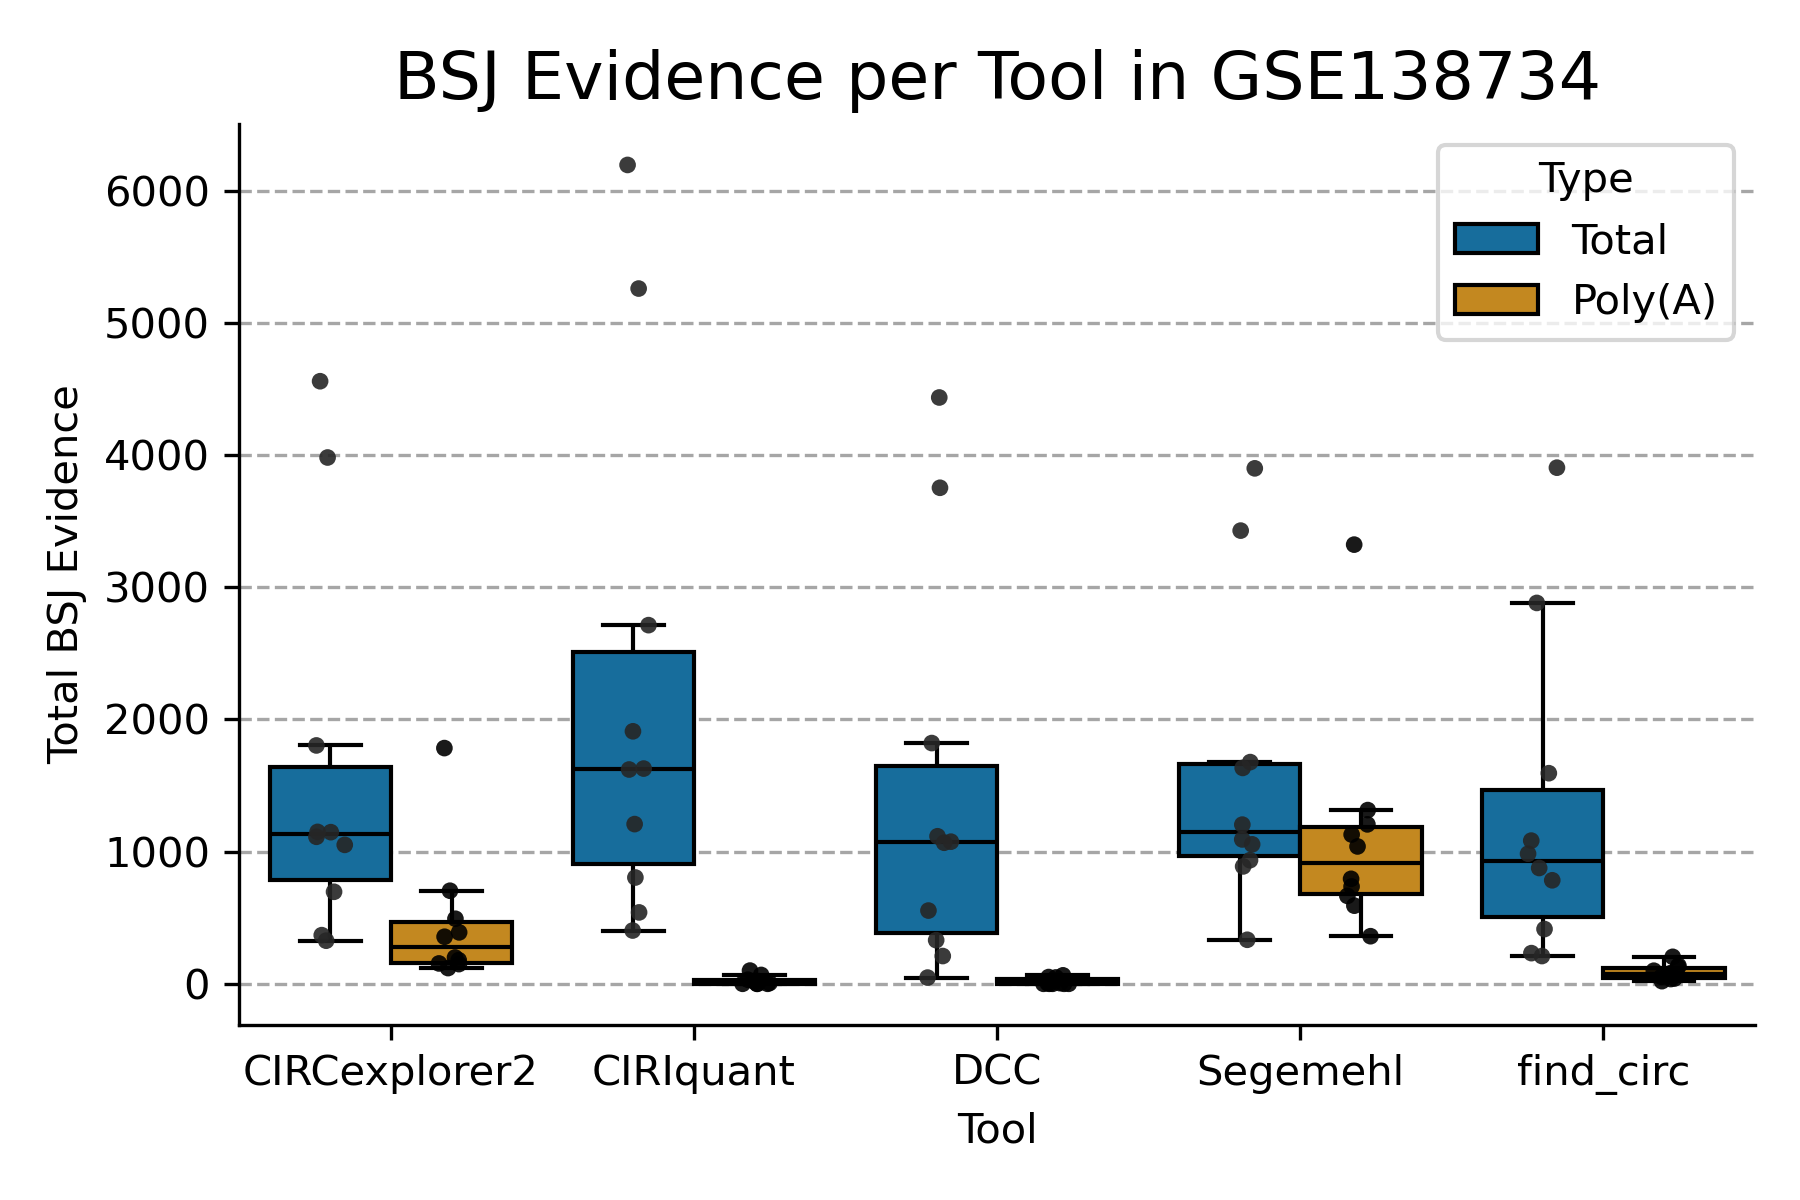
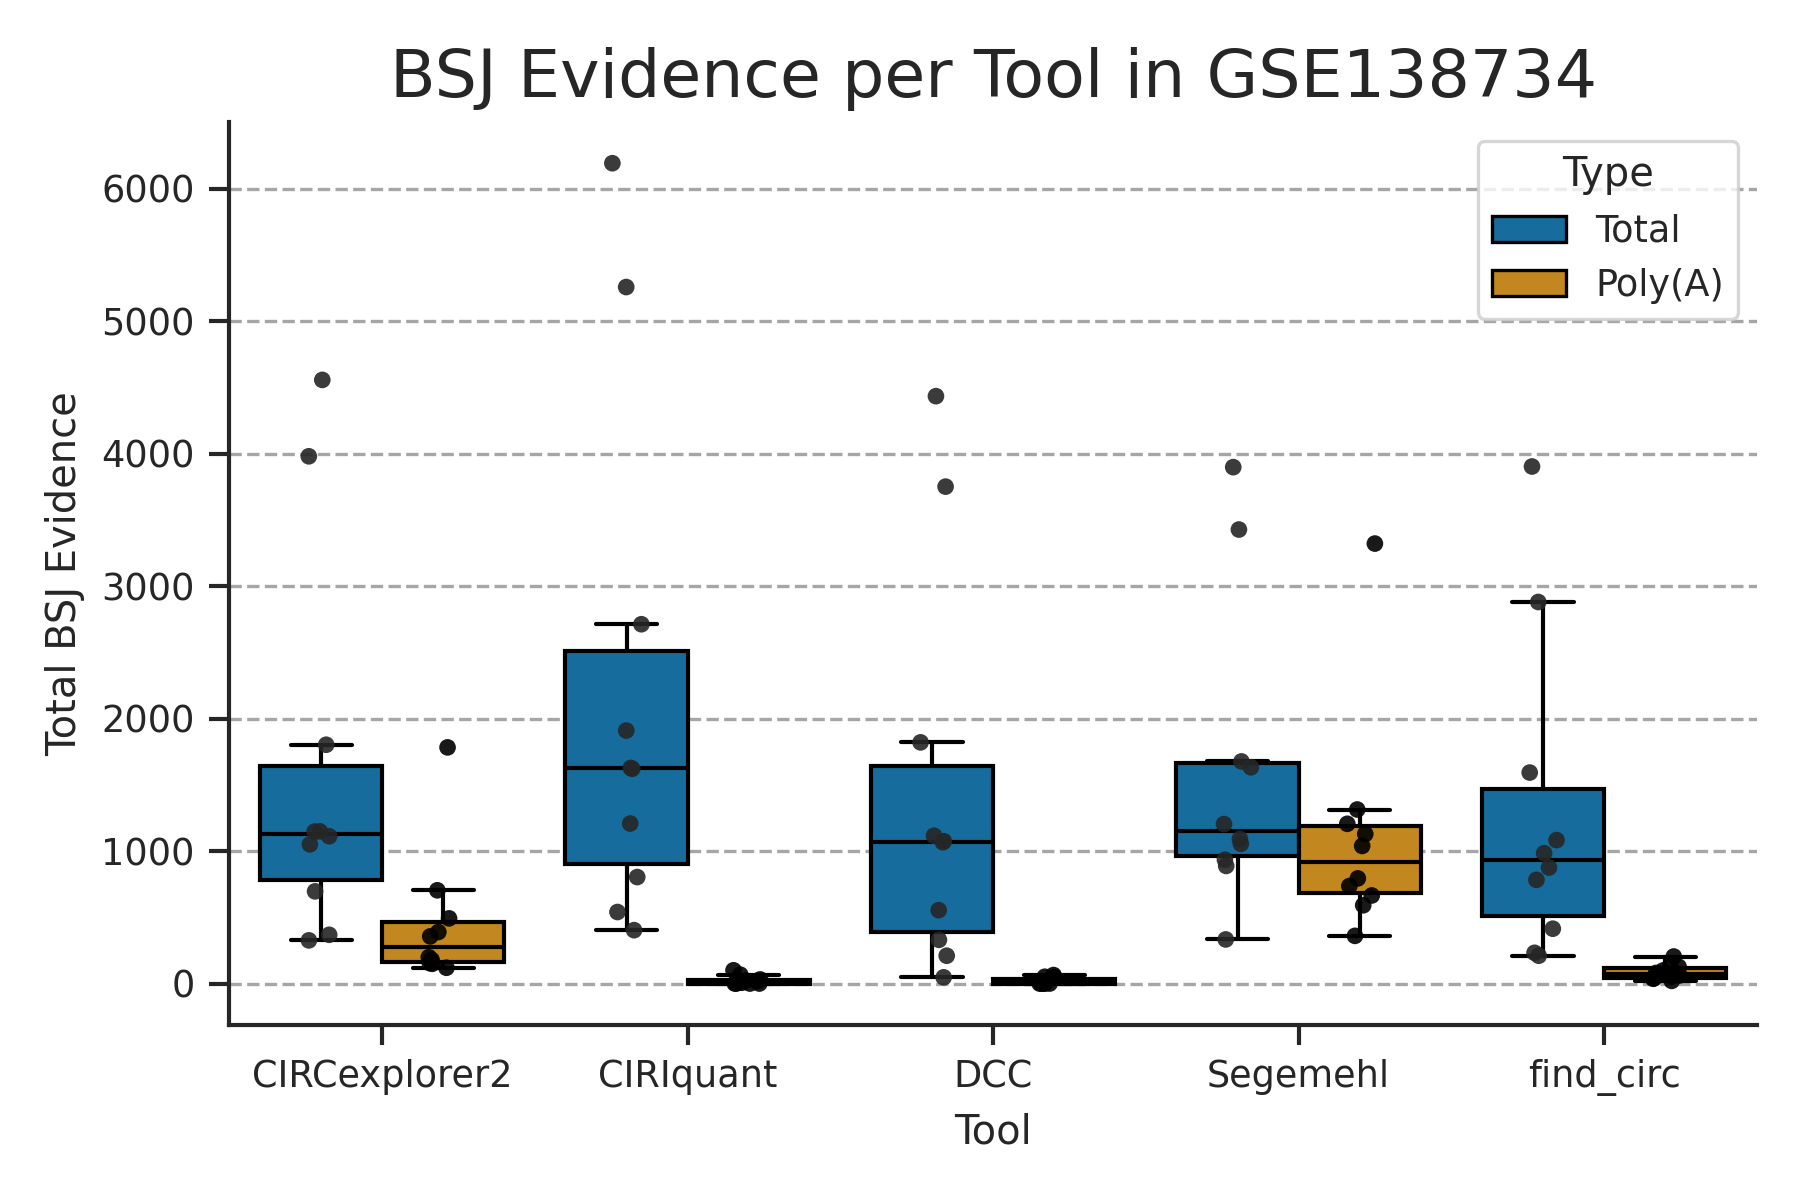
fixing bsj sum plot

diff --git a/src/rrna_analysis/misc/plot_bsj_sum.py b/src/rrna_analysis/misc/plot_bsj_sum.py
@@ -5,13 +5,15 @@ import pandas as pd
 import sys
 import os
 
-# Custom palette
-palette = {
-    "total": "#FC8D62",  # orange
-    "polyA": "#66C2A5",  # green
-}
-
 MAIN_DATA_DIR = sys.argv[1]
+dataset_name = MAIN_DATA_DIR.split("/")[-1]
+
+
+sns.set_theme(style="ticks", context="paper", palette="colorblind")
+
+sns.set_context(
+    "paper"
+)
 
 # Input files
 polya_file = os.path.join(MAIN_DATA_DIR, "polya.bsj_amount.json")
@@ -26,28 +28,24 @@ with open(total_file) as f:
 
 tools = polya_data.keys()
 
-tools = polya_data.keys()
-
-
-
 all_data = []
 for tool in tools:
     polya_vals = polya_data[tool]
     total_vals = total_data[tool]
 
     # Extract per-sample values
-    samples = sorted([k.split("_")[0] for k in polya_vals.keys()])
-    for s in samples:
-        s_str = str(s)
+    for sample in polya_vals.keys():
         all_data.append({
             "Tool": tool,
             "Type": "polyA",
-            "Count": polya_vals.get(f"{s_str}_polya", 0)
+            "Count": polya_vals.get(sample, 0)
         })
+    
+    for sample in total_vals.keys():
         all_data.append({
             "Tool": tool,
             "Type": "total",
-            "Count": total_vals.get(f"{s_str}_total", 0)
+            "Count": total_vals.get(sample, 0)
         })
 
 df = pd.DataFrame(all_data)
@@ -68,8 +66,7 @@ df['Type'] = df['Type'].replace(name_map_1)
 tool_order = sorted(df["Tool"].unique())
 plt.figure(figsize=(6, 4))
     
-cb_palette = sns.color_palette("colorblind")
-palette = {"Total": cb_palette[0], "Poly(A)": cb_palette[1]}
+palette = {"Total": "#0073B3", "Poly(A)": "#DE8E04"}  
 
 ax = sns.boxplot(
     data=df,
@@ -92,10 +89,10 @@ sns.stripplot(
     dodge=True, jitter=True, alpha=0.9, size=4, color="black"
 )
 
-ax.set_title("BSJ Evidence per Tool in GSE138734", fontsize=16)
+ax.set_title(f"BSJ Evidence per Tool in {dataset_name}", fontsize=16)
 ax.set_ylabel("Total BSJ Evidence")
 ax.set_xlabel("Tool")
-#ax.set_yscale("log")
+# ax.set_yscale("log")
 #plt.xticks(rotation=45)
 # Fix double legend (boxplot + stripplot)
 handles, labels = ax.get_legend_handles_labels()